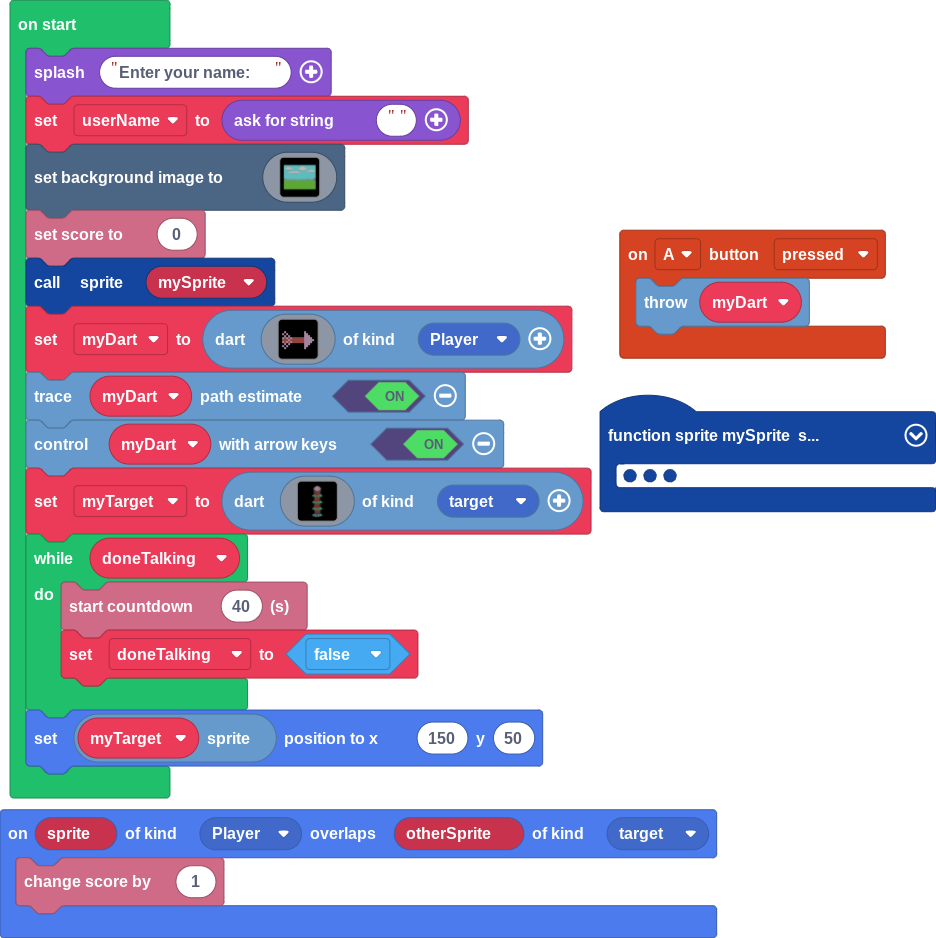
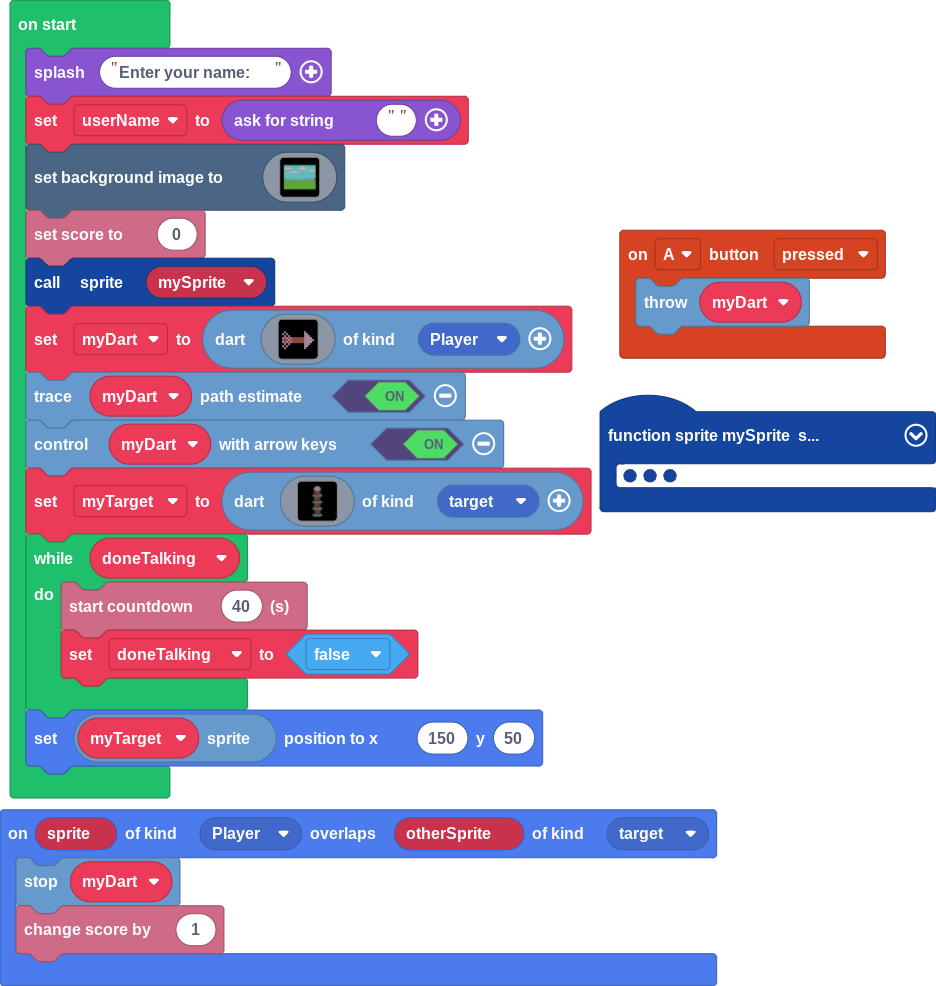
Update main.blocks, main.ts

diff --git a/main.ts b/main.ts
@@ -44,6 +44,7 @@ controller.A.onEvent(ControllerButtonEvent.Pressed, function () {
     myDart.throwDart()
 })
 sprites.onOverlap(SpriteKind.Player, SpriteKind.target, function (sprite2, otherSprite) {
+    myDart.stopDart()
     info.changeScoreBy(1)
 })
 let doneTalking = false
